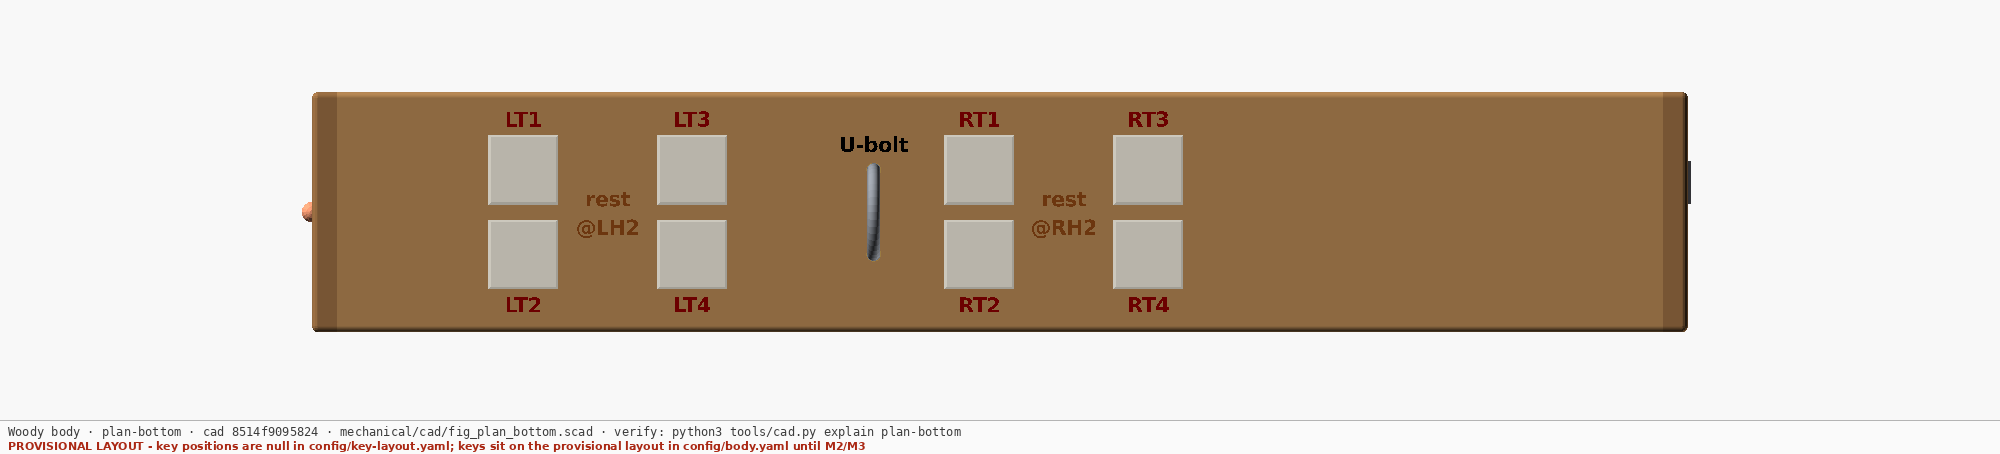
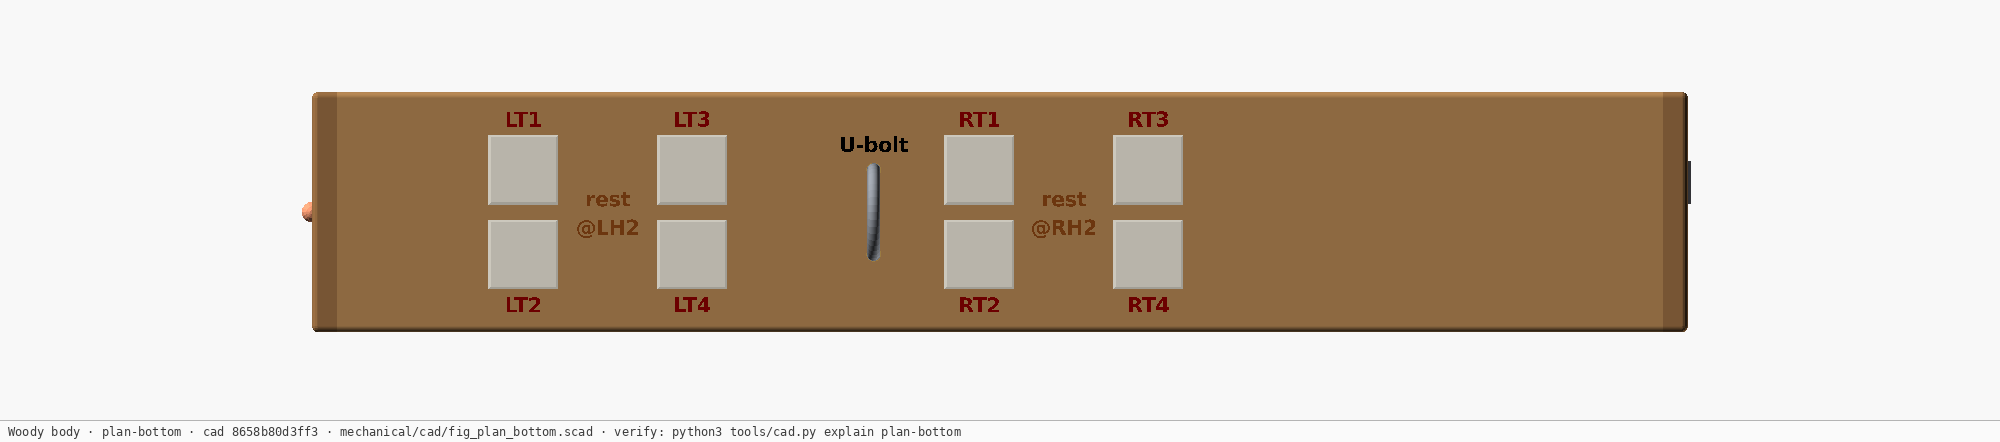
#6: key positions final for rev A (owner) - body.yaml layout settled, PROVISIONAL band off
The owner, 2026-10-04: "I think we're good to mark them final for rev-A. We
won't know again until they are actually in my hands and we can double check."
config/body.yaml layout lh_gaps, lh_offsets, rh_gaps, rh_offsets, lt_rest_under,
lt_rest, rt_rest_under, rt_rest: settled, values unchanged. key-layout.yaml x/y
stay null; tools/cad.py treats the layout as final when those figures are all
settled (LAYOUT_FIGURES, layout_final in params.scad), so the PROVISIONAL band,
drc.echo's PROVISIONAL and the plan figure's label go. pcb-geometry.echo and
every DXF unchanged. ADR 0010 amendment; ROADMAP M3; mechanical README; both
key-board READMEs' Open tables.

Gate-Red: check-staleness cad - the OpenSCAD renders (hero, sections, breakdowns), the Blender photos and clash are stale against params.scad/woody_body.scad (no geometry change; the footer band only) and the key boards' silk change: deferred to the coordinator's one rebuild after merge, per instruction; sim - boards/module-iso has no tooling.md coverage row (pre-existing); kicad.py check - module-main.kicad_pcb errors and stale module-main renders (pre-existing)

Claude-Session: https://claude.ai/code/session_01LmB4muFXnoLprWX4JzuJ5A

diff --git a/tools/cad.py b/tools/cad.py
@@ -190,6 +190,8 @@ def render_params():
     L.append("keys = [\n" + ",\n".join(rows) + "\n];")
     placed = sum(1 for k in kl["keys"] if k["x"] is not None and k["y"] is not None)
     L.append(f"keys_placed = {placed};  // of {len(kl['keys'])}")
+    final = placed == len(kl["keys"]) or layout_settled()
+    L.append(f"layout_final = {scad_value(final)};  // every key at x/y, or every {BODY} layout figure placing the rest settled")
     L.append(f"spare_switch_cutouts = {scad_value(kl.get('spare_bits_switches', 0))};")
     L.append("")
 
@@ -295,9 +297,23 @@ PARAM_SETS = [(PARAMS, render_params, f"{KEY_LAYOUT} + {BODY} + {BRANDING_SPEC} 
               (MODULE_PARAMS, render_module_params, MODULE)]
 
 
+# The config/body.yaml `layout:` figures that place a key whose x/y is null in
+# config/key-layout.yaml. When every one is `settled`, the layout they give is
+# final (the owner, 2026-10-04: final for rev A; ADR 0010, Amendment
+# 2026-10-04) and the renders carry no PROVISIONAL band, though the keys are
+# still placed from these figures rather than from x/y.
+LAYOUT_FIGURES = ["lh_gaps", "lh_offsets", "rh_gaps", "rh_offsets",
+                  "lt_rest_under", "lt_rest", "rt_rest_under", "rt_rest"]
+
+
+def layout_settled():
+    body = yaml.safe_load(open(os.path.join(ROOT, BODY), encoding="utf-8"))
+    return all(body["layout"][n].get("status") == "settled" for n in LAYOUT_FIGURES)
+
+
 def is_provisional():
     kl = yaml.safe_load(open(os.path.join(ROOT, KEY_LAYOUT), encoding="utf-8"))
-    return any(k["x"] is None or k["y"] is None for k in kl["keys"])
+    return any(k["x"] is None or k["y"] is None for k in kl["keys"]) and not layout_settled()
 
 
 def params_problems():
@@ -529,8 +545,8 @@ def stamp(png, o, fp, provisional):
     d.text((8, y0 + 4), text, fill=(60, 60, 60), font=f)
     if provisional:
         d.text((8, y0 + 19), "PROVISIONAL LAYOUT - key positions are null in "
-               "config/key-layout.yaml; keys sit on the provisional layout in "
-               "config/body.yaml until M2/M3", fill=(170, 40, 20), font=fb)
+               "config/key-layout.yaml and the config/body.yaml layout that "
+               "places them is not settled", fill=(170, 40, 20), font=fb)
     if note:
         d.text((8, y0 + band - 15), note, fill=(40, 70, 140), font=fb)
     # Deterministic PNG: no timestamps, no text chunks.

diff --git a/docs/decisions/0010-key-layout-as-data.md b/docs/decisions/0010-key-layout-as-data.md
@@ -1,6 +1,6 @@
 # 0010 — Key layout as data
 
-**Status:** Accepted
+**Status:** Accepted. **Amended 2026-10-04** (the provisional layout is final for rev A: *Amendment* below).
 
 ## Context
 
@@ -259,3 +259,26 @@ M2 when there is something to put hands on.
 are octave/register keys, as on a conventional woodwind. The 2021 firmware used
 three left-thumb inputs for octave selection across a four-octave span,
 including bridged positions. Confirm at M2.
+
+## Amendment, 2026-10-04 — the provisional layout is final for rev A
+
+**The owner, 2026-10-04** (working chat, review #6): **"I think we're good to
+mark them final for rev-A. We won't know again until they are actually in my
+hands and we can double check."**
+
+1. **The key positions the body CAD derives today are final for rev A.** The
+   `config/body.yaml` `layout:` figures that place every key — `lh_gaps`,
+   `lh_offsets`, `rh_gaps`, `rh_offsets`, `lt_rest_under`, `lt_rest`,
+   `rt_rest_under`, `rt_rest` — are `settled`, at their values unchanged; no
+   key moves.
+2. **`config/key-layout.yaml` x/y stay null.** The keys are still placed from
+   those figures (the CAD's `prov_xy`), so the bands, the derived length and
+   the boards keep following them; copying the derived coordinates into x/y
+   would freeze numbers that the body's other figures move. `tools/cad.py`
+   treats the layout as final when every one of those figures is `settled`
+   (`LAYOUT_FIGURES`; the renders' PROVISIONAL band and `drc.echo`'s
+   `PROVISIONAL` go with it). Filling x/y key by key is still how a measured
+   position replaces a derived one.
+3. **The check moves to the boards in hand.** M2/M3's ergonomic check is made
+   on the rev A boards once they are built (ROADMAP, Track M); a change it
+   finds is a rev B layout, not an edit before this order.

diff --git a/ROADMAP.md b/ROADMAP.md
@@ -70,7 +70,7 @@ the tail — by the body CAD (`mechanical/drc.echo`, "overall length"). It was
 |---|---|---|
 | M1 | Switch characterisation | **Cutout is 14.0 × 14.0 mm**, measured from a working KS-33 build ([reference](docs/reference/ks33-geometry.md)); body geometry from Gateron's STEP model, not calipers. Test coupon cut at ±0.1mm around 14.0 to find the *achieved* fit in real material; retention verified by hand; **bounce and the actuation/reset hysteresis gap scoped** on fast press, slow press, fast release, slow release and a worn switch — neither is published; **action assessed by hand** — fingertip vs thumb-tip, and whether the four thumb keys want a lighter spring than the eleven finger keys |
 | M2 | Layout mule | Full key count on a laser-cut plate, hand-wired, mounted to a mock body; playable |
-| M3 | Layout locked | Ergonomics settled after 2–3 iterations of M2. No aluminium cut before this |
+| M3 | Layout locked | Ergonomics settled after 2–3 iterations of M2. No aluminium cut before this. **Rev A goes ahead on the current layout** (owner, 2026-10-04: final for rev A; ADR 0010, *Amendment, 2026-10-04*): the check on the rev A boards in hand stays, and a change it finds is rev B |
 | M4 | Stack design | Full laminated stack in CAD, every layer a 2D part, **modelled against the real KS-33 STEP solid** rather than a nominal box (ADR 0002) |
 | M5 | Aluminium top plate | Cut, fitted, switches retained solidly, **bonded to `PWR_GND`**. Not before E13 — see the ordering rules below |
 | M6 | Body | Oak top and bottom, frosted acrylic sides, strap points, **matrix window + diffuser on the top face after the keys, and the USB-C slot** (ADR 0009) |

diff --git a/docs/decisions/README.md b/docs/decisions/README.md
@@ -61,7 +61,7 @@ fourteen on 2026-09-21, eleven rows missing amendments on 2026-10-02.)
 | [0007](0007-imu-selection.md) | IMU selection | Accepted. Board selected: Waveshare ESP32-S3-Matrix. |
 | [0008](0008-display-selection.md) | Display selection | Superseded by [ADR 0015](0015-one-mcu-no-display.md) (2026-09-26): there is no display board; the 8×8 LED matrix is the only display. |
 | [0009](0009-enclosure-construction.md) | Enclosure construction | Accepted. **How the body closes is amended 2026-09-29 by [ADR 0025](0025-the-cassette.md)**: the six body fasteners are gone. The internals are one bonded unit, the cassette, glued into the shell with RTV and opened by cutting it. Each passage that ADR 0025 changes is marked in place. **Amended 2026-10-01** (owner): the maker's mark goes on the oak top. |
-| [0010](0010-key-layout-as-data.md) | Key layout as data | Accepted |
+| [0010](0010-key-layout-as-data.md) | Key layout as data | Accepted. **Amended 2026-10-04** (the provisional layout is final for rev A: *Amendment* below). |
 | [0011](0011-licensing.md) | Licensing | Accepted |
 | [0012](0012-configuration-interface.md) | Configuration interface | Superseded by [ADR 0015](0015-one-mcu-no-display.md) (2026-09-26): configuration is over USB only and the instrument has no radio. The need this ADR argues — too much to configure through buttons — still stands; the phone and WiFi do not. |
 | [0013](0013-two-mcu-split.md) | Two-MCU split | Superseded by [ADR 0015](0015-one-mcu-no-display.md) (2026-09-26): one MCU, the real-time board. Its build approach — dev board as a module, a passive board for the rest — still holds. |

diff --git a/hardware/boards/key-board-lh/README.md b/hardware/boards/key-board-lh/README.md
@@ -467,7 +467,7 @@ the row.
 
 | Open | Decided by |
 |---|---|
-| **The switch positions** (`layout.lh_gaps`, `layout.lh_offsets` `tbd`; `config/key-layout.yaml` `x`/`y` replace them) | M2 on the mule, locked at M3 |
+| **The switch positions: check on the boards in hand (rev A).** Final for rev A (owner, 2026-10-04; ADR 0010, *Amendment, 2026-10-04*): `config/body.yaml` `layout.lh_gaps`, `layout.lh_offsets` and the rest are `settled` | the rev A boards in hand; a change is rev B |
 | The FFSD socket's stand-out from the header's mouth, `boards.chain_plug_proud`. The print does not dimension it, and it decides whether the cable clears the shroud's mouth at all, not only the ribbon's fold | M4, the first mated pair |
 | The mount's spacers, faced to `hardware.kb_spacer_l` (no stocked M2.5 spacer has that length), and the column's standoff and screw (`MECH-COL-STANDOFF`, `MECH-COL-SCREW`) | the first fit; M4, with the parts bought |
 | The board depth at the hardware's tolerance limits: the worst case reaches the window's shoulder end (`drc.echo` "key-board depth at the hardware's tolerance limits") | the first board, fitted |

diff --git a/mechanical/README.md b/mechanical/README.md
@@ -3,10 +3,12 @@
 *Installing the tools and the day-to-day loop: [`docs/reference/tooling.md`](../docs/reference/tooling.md)
 (`sudo bash tools/setup-env.sh` installs everything).*
 
-> **Status:** first model, 2026-09-26. **Layout is PROVISIONAL**: every key
-> position in `config/key-layout.yaml` is still `null` (they are M2/M3
-> outputs), so keys are placed on ADR 0009's length budget and every render
-> says so in its footer. Keys are **flush with the top face at full travel**
+> **Status:** first model, 2026-09-26. **Layout is final for rev A** (owner,
+> 2026-10-04; ADR 0010, *Amendment, 2026-10-04*): every key position in
+> `config/key-layout.yaml` is still `null`, and keys are placed from the
+> `config/body.yaml` `layout:` figures, now `settled`. Until those were settled
+> every render said PROVISIONAL in its footer; the check on the rev A boards in
+> hand stays (ROADMAP, M3). Keys are **flush with the top face at full travel**
 > — thumb keys included, on the bottom face. **There is no display board**:
 > the LED matrix is the instrument's only display (ADR 0015, 2026-09-26).
 

diff --git a/hardware/boards/key-board-rh/README.md b/hardware/boards/key-board-rh/README.md
@@ -99,5 +99,6 @@ with the latest layout's date until a board is fabricated
 
 ## Open, and what decides each
 
-The left-hand page's *Open* table holds for this board too. This board adds
-nothing to it.
+The left-hand page's *Open* table holds for this board too, the switch
+positions included: final for rev A, checked on the boards in hand
+(`layout.rh_gaps`, `layout.rh_offsets`). This board adds nothing to it.
